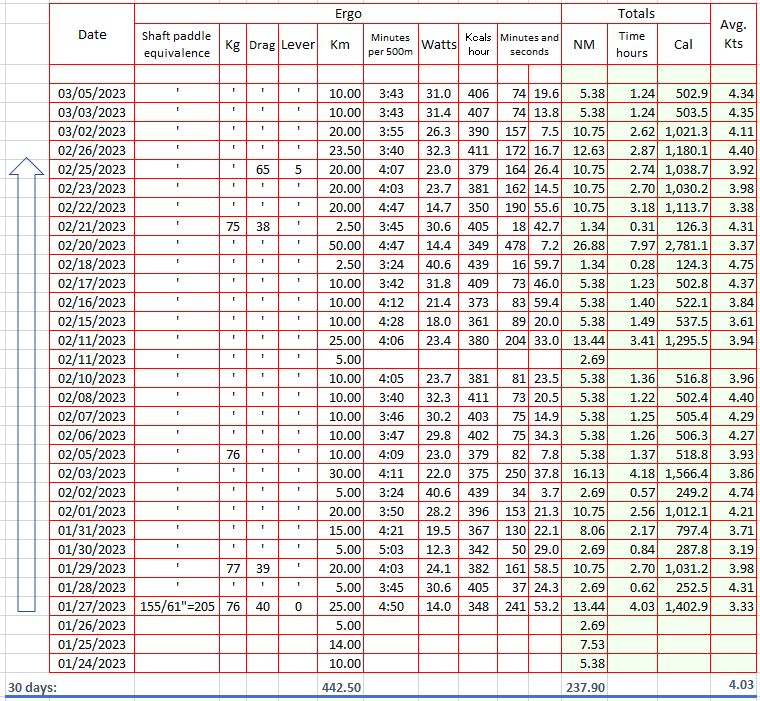
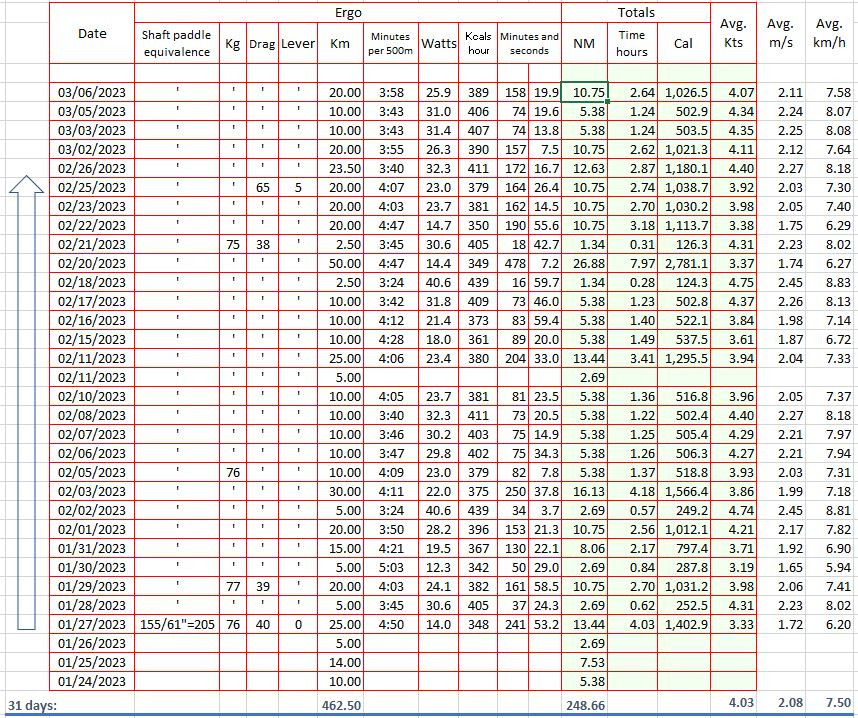
update

diff --git a/dry-run/log/index.html b/dry-run/log/index.html
@@ -214,11 +214,11 @@ $(document).ready(function(){
 <p>This is not the actual trip. This is just training mapped on chart to have an idea of what the real thing might be.</p>
 </blockquote>
 <blockquote>
-<p>March 5, 2023</p>
+<p>March 6, 2023</p>
 </blockquote>
-<p><img src="/img/mar5.JPG" alt="March 5">
+<p><img src="/img/mar6.JPG" alt="March 6">
 <div style="text-align: center">
-30 days on ergo, 238 nautical miles, 442 Km
+31 days on ergo, 248 nautical miles, 462 Km
 </div>
 </p>
 <p><img src="/img/Stats.JPG" alt="Stats">
